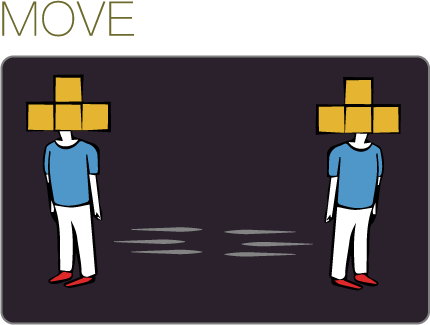
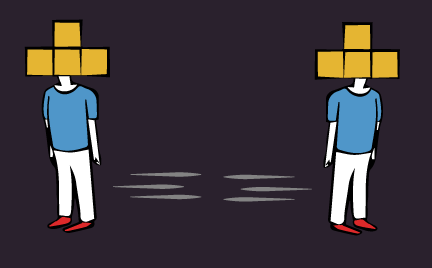
Change layout

diff --git a/pages/index.vue b/pages/index.vue
@@ -1,5 +1,5 @@
 <template>
-  <div class="container-fluid border">
+  <div class="container-fluid">
     <!-- Header -->
     <div class="header col-md-6 d-flex justify-content-center py-3">
       <h1>NINGEN TETRIS</h1>
@@ -7,44 +7,22 @@
 
     <!-- Main Contents -->
     <!-- tetris container -->
-    <div class="row border">
-      <div class="tetris-container col-md-6 border">
+    <div class="row">
+      <div class="tetris-container col-md-6">
         <div class="human-container" style="d-flex justify-content-center">
           <video id="video" width="640px" height="480px" style="position:absolute;"></video>
-          <canvas id="canvas" width="640px" height="480px" style="position:absolute;"></canvas>
+          <canvas :class="{show : $store.state.isCameraMode }" id="canvas" width="640px" height="480px" style="position:absolute;"></canvas>
         </div>
         <tetris-frame ref="tetris" />
       </div><!-- /tetris container -->
-
-      <!-- info container -->
-      <div class="info-container col-md-6 mb-3 border">
-        <!-- score -->
-        <div class="score-container row">
-          <div class="position-relative score-box col-md-6">
-            <img class="img-fluid" src="@/assets/img/score.png" alt="">
-            <span class="score position-absolute">
-              {{$store.state.score}}
-            </span>
-          </div>
-        </div><!-- /score -->
-        <!-- howto -->
-        <div class="howto-container row">
-          <div class="move-box col-md-6">
-            <img class="img-fluid" src="@/assets/img/move.png" alt="">
-          </div>
-          <div class="rotate-box col-md-6">
-            <img class="img-fluid" src="@/assets/img/rotate.png" alt="">
-          </div>
-        </div><!-- /howto -->        
-        <div class="mino-info-container row">
-        </div>
-      </div><!-- /info container -->
+      <info-container />
     </div><!-- /Main Contents -->
   </div>
 </template>
 
 <script>
 import TetrisFrame from '@/components/TetrisFrame'
+import InfoContainer from '@/components/InfoContainer'
 import { mapActions } from 'vuex'
 
 // NOTE: サーバーサイドレンダリングはdocumentオブジェクトを参照できないため、
@@ -55,7 +33,8 @@ if (process.browser) {
 
 export default {
   components: {
-    TetrisFrame
+    TetrisFrame,
+    InfoContainer
   },
   data () {
     return {
@@ -96,18 +75,9 @@ export default {
 </script>
 
 <style lang="scss">
+
 body {
   background: #3C2E40;
-}
-
-.score-box {
-  // background-size: cover;
-  // background-image: url('../assets/img/score.png');
-  // background-repeat: no-repeat;
-}
-
-.header {
-  color: #87C166;
 }
 
 .human-container {
@@ -121,34 +91,27 @@ body {
     margin: auto;
   }
 
-  canvas {
+  .show {
     opacity:.65;
+  }
+
+  canvas {
+    opacity: 0;
     top: 0;
     left: 0;
     right: 0;
     bottom: 0;
     margin: auto;
-
   }
 }
 
-.score {
-  top: 50px;
-  left: 32px;
-  font-size: 30px;
-  letter-spacing: 25px;
-  color: #F597AB;
-  // font-family: 'Osaka';
-}
-
-.howto-container {
-  margin-top: 50px;
+.header {
+  color: #87C166;
 }
 
 table td {
   width: 50px;
   height: 50px;
-  border:1px solid black;
 }
 
 </style>

diff --git a/components/InfoContainer.vue b/components/InfoContainer.vue
@@ -1,0 +1,136 @@
+<template>
+	<!-- info container -->
+	<div class="info-container col-md-6 mb-3">
+		<!-- howto -->
+		<div class="howto-container row">
+			<div class="move-box col-md-6">
+				<b-card border-variant="light"
+								title="MOVE"
+								:img-src=img.move
+								img-alt="Image"
+								img-top
+								tag="article"
+								style="max-width: 80%;"
+								class="mb-2">
+					<p class="card-text">
+						If you move between left and right, falling tetris block will follow you.
+					</p>
+				</b-card>				
+			</div>
+			<div class="rotate-box col-md-6">
+				<b-card title="ROTATE"
+								:img-src=img.rotate
+								img-alt="Image"
+								img-top
+								tag="article"
+								style="max-width: 80%;"
+								class="mb-2">
+					<p class="card-text">
+						Every time you jump, falling tetris block will rotate.
+					</p>
+				</b-card>						
+			</div>
+		</div><!-- /howto -->    
+		<!-- score-container -->
+		<div class="score-container row">
+			<div class="score-box col-md-6">
+				<b-card header="SCORE"
+								:title=$store.getters.score.toString()
+								tag="article"
+								style="max-width: 80%;"
+								class="mb-2">
+
+				</b-card>					
+			</div>          
+			<div class="level-box col-md-6">
+				<b-card header="LEVEL"
+								:title=$store.getters.level.toString()
+								tag="article"
+								style="max-width: 80%;"
+								class="mb-2">
+				</b-card>					
+			</div>          
+		</div><!-- /score-container -->		
+		<div class="paramerter-container">
+			<div class="paramerter-container__show-video">
+		    <b-button :pressed.sync="myToggle" variant="secondary">{{myToggle ? "Camera View" : "No Camera"}}</b-button>
+			</div>
+		</div>    
+	</div><!-- /info container -->
+</template>
+
+<script>
+import { mapGetters, mapActions } from 'vuex'
+
+export default {
+  data() {
+		return {
+			img: {
+					move: require('@/assets/img/move.png'),
+					rotate: require('@/assets/img/rotate.png')
+			},
+      myToggle: false,
+      buttons: [
+        { variant: 'outline-success', caption: 'カメラ表示', state: false }
+      ]			
+		}
+	},
+  computed: {
+    // ゲッターを、スプレッド演算子（object spread operator）を使って computed に組み込む
+    ...mapGetters([
+			'score',
+			'level'
+    ])
+	},
+	watch: {
+		myToggle(newVal, oldVal) {
+			console.log(newVal + " ? " + this.myToggle)
+			this.setIsCameraMode(newVal)
+		}
+	},
+	methods: {
+		 ...mapActions([
+      'setIsCameraMode'
+    ]),
+	}
+}
+</script>
+
+<style lang="scss" scoped>
+.card {
+	border: none;
+
+	margin: 0;
+	.card-title {
+		color: #6C6A2C;
+	}
+
+	.card-body {
+		background: #F7F1D5;
+	}
+}
+.score-container {
+	margin-top: 30px;
+	.card-body {
+		padding-top: 5px;
+		padding-bottom: 5px;
+	}
+
+	.score-box {
+		color: #D15A6E;
+
+		.card-title {
+			color: #D15A6E;
+		}
+	}
+}
+
+.howto-container {
+  margin-top: 0px;
+}
+
+.paramerter-container {
+	margin-top: 30px;
+	color: #6C6A2C;
+}
+</style>

diff --git a/store/index.js b/store/index.js
@@ -3,21 +3,35 @@ import Vuex from 'vuex'
 const createStore = () => {
   return new Vuex.Store({
     state: () => ({
-      score: 0
+			score: 0,
+			level: "BEGINNER",
+			isCameraMode: false
     }),
     mutations: {
       setScore (state, val) {
         state.score = val
-      }
+			},
+			setIsCameraMode(state, flag) {
+				state.isCameraMode = flag;
+			}
 		},
 		actions: {
 			setScore (context, val) {
 				context.commit('setScore', val)
+			},
+			setIsCameraMode(context, flag) {
+				context.commit('setIsCameraMode', flag)
 			}
 		},
 		getters: {
-			getScore (state) {
+			score (state) {
 				return state.score
+			},
+			level (state) {
+				return state.level
+			},
+			isCameraMode (state) {
+				return state.isCameraMode
 			}
 		}
   })
